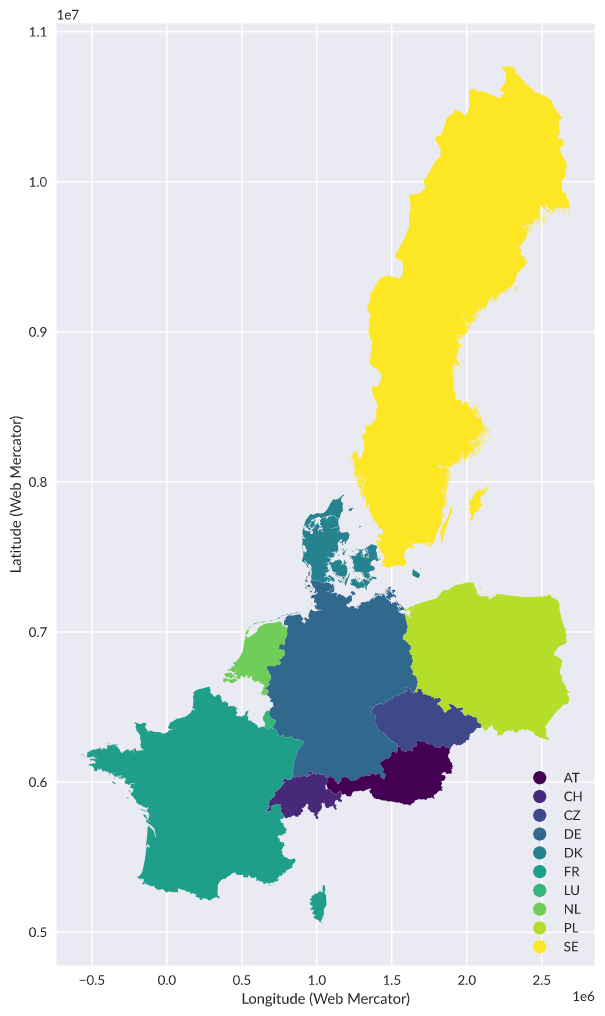
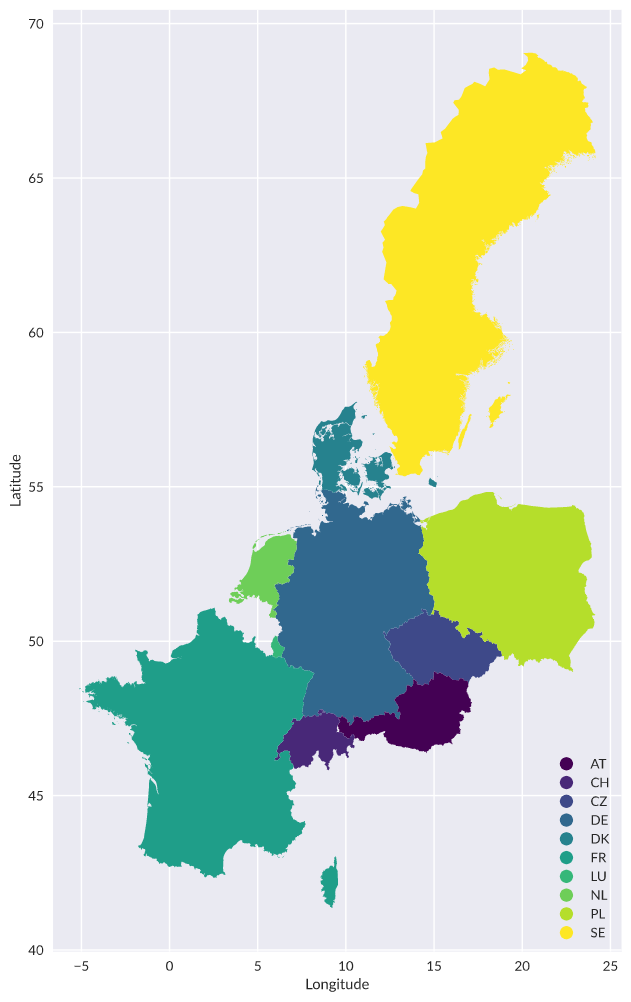
update plots, scripts

diff --git a/scripts/rpowerplants_met_loc.py b/scripts/rpowerplants_met_loc.py
@@ -1,19 +1,42 @@
+"""German renewable power generator data with location and met station
+
+Combines German Erneuerbare-Energien-Gesetz (EEG, which roughly translates
+to Renewable Energy Sources Act) power generator data from
+Netztransparenz.de (https://www.netztransparenz.de/EEG/Anlagenstammdaten)
+with postcode and geo location data from GeoNames
+(https://download.geonames.org/export/zip/), and meteorological station
+data from Deutscher Wetterdienst (DWD), Germany's meteorological service
+(https://www.dwd.de/EN/climate_environment/cdc/cdc_node.html). This script
+produces CSV files of wind and/or solar power generators, their approximate
+geo location, and their closest meteorological station. The generator
+installed capacity is aggregated by postal code.
+"""
+
 # import libraries
 from scipy import spatial
 import pandas as pd
 import numpy as np
+from os import makedirs
+import errno
+
+# GitLab data repository base URL
+urlBase = 'https://gitlab.com/api/v4/projects/19753809/repository/files/'
 
 postcodes = pd.read_csv(
-    'data/geography/postcodes/postcodesDE.csv', encoding='utf-8',
-    usecols=['postal_code', 'latitude', 'longitude'])
+    urlBase + 'geography%2Fpostcodes%2FpostcodesDE.csv/raw?ref=master',
+    # 'data/geography/postcodes/postcodesDE.csv',
+    encoding='utf-8',
+    usecols=['postal_code', 'latitude', 'longitude', 'accuracy'])
 
 # take the first postcode value when there are duplicates, drop all others
 postcodes = postcodes.drop_duplicates(['postal_code'])
 
 # read meteorological station data
 stns = pd.read_csv(
-    'data/meteorology/stations.csv', encoding='utf-8',
-    usecols=['station_id', 'latitude', 'longitude', 'type'])
+    urlBase + 'meteorology%2Fstations.csv/raw?ref=master',
+    # 'data/meteorology/stations.csv',
+    encoding='utf-8',
+    usecols=['station_id', 'latitude', 'longitude', 'type', 'state'])
 
 # rename lat and lon columns for met data
 stns = stns.rename(columns={'longitude': 'met_lon', 'latitude': 'met_lat'})
@@ -22,11 +45,29 @@ stns = stns.rename(columns={'longitude': 'met_lon', 'latitude': 'met_lat'})
 eList = ['wind']
 # eList = ['wind', 'solar']
 
+# create directory to store data
+dest = 'data/power/installed/'
+try:
+    makedirs(dest)
+except OSError as exception:
+    if exception.errno != errno.EEXIST:
+        raise
+    else:
+        print('\nBE CAREFUL! Directory ' + dest + ' already exists.')
+
 for m in eList:
     # read installed power plants data
     pp = pd.read_csv(
-        'data/power/installed/' + m + '.csv',
-        encoding='utf-8', usecols=['EEG_plant_key', 'postal_code'])
+        urlBase + 'power%2Finstalled%2F' + m + '.csv/raw?ref=master',
+        # 'data/power/installed/' + m + '.csv',
+        encoding='utf-8',
+        usecols=['postal_code', 'installed_capacity', 'city_district', 'TSO'])
+
+    # aggregate by postal code
+    pp = pd.merge(pp.groupby(
+        by='postal_code', as_index=False).installed_capacity.sum(),
+        pp.drop(columns='installed_capacity'),
+        on=['postal_code']).drop_duplicates(['postal_code'])
 
     # merge postcode and power plant data
     pp = pd.merge(pp, postcodes, on=['postal_code'])
@@ -62,10 +103,6 @@ for m in eList:
     # merge power plant and met data
     pp = pd.merge(pp, met, on=['met_lon', 'met_lat'], how='left')
 
-    # sort data by distance value
-    pp = pp.sort_values(by=['distance'])
-
-    # save data as CSV file
+    # save as CSV
     pp.to_csv(
-        'data/power/installed/' + m + '_met_loc.csv',
-        encoding='utf-8', index=False)
+        dest + m + '_agg.csv', encoding='utf-8', index=False)

diff --git a/scripts/wind_agg_plot.py b/scripts/wind_agg_plot.py
@@ -1,0 +1,88 @@
+"""Plotting postcode-aggregated German wind power generator data
+
+This script plots an interactive map of aggregated wind energy generators
+in Germany with tooltips that contain their approximate location, the
+closest wind meteorological station, installed capacity in the postal code
+area, and the transmission system operator.
+Data sources:
+- German Erneuerbare-Energien-Gesetz (EEG, which roughly translates to
+    Renewable Energy Sources Act) power generator data from
+    Netztransparenz.de (https://www.netztransparenz.de/EEG/Anlagenstammdaten)
+- postcode and geo location data from GeoNames
+    (https://download.geonames.org/export/zip/)
+- meteorological station data from Deutscher Wetterdienst (DWD),
+    Germany's meteorological service
+    (https://www.dwd.de/EN/climate_environment/cdc/cdc_node.html)
+"""
+
+# import libraries
+from bokeh.models import ColumnDataSource, CategoricalColorMapper, Plot
+from bokeh.plotting import figure
+from bokeh.tile_providers import get_provider, Vendors
+from bokeh.io import show
+from bokeh.palettes import viridis
+from pyproj import Transformer
+import pandas as pd
+
+# GitLab raw file base URL
+url = (
+    'https://gitlab.com/api/v4/projects/19753809/repository/files/' +
+    'power%2Finstalled%2Fwind_agg.csv/raw?ref=master')
+#   'data/power/installed/wind_agg.csv')
+
+data = pd.read_csv(url, encoding='utf-8')
+
+# transform latitudes and longitudes from WGS84 to Web Mercator projection
+lons = tuple(data['longitude'])
+lats = tuple(data['latitude'])
+transformer = Transformer.from_crs('epsg:4326', 'epsg:3857', always_xy=True)
+xm, ym = transformer.transform(lons, lats)
+data['mercator_x'] = xm
+data['mercator_y'] = ym
+
+# fill missing values
+data = data.fillna('?')
+
+# rounding floats
+data = data.round(
+    {'latitude': 3, 'longitude': 3, 'accuracy': 3, 'met_lat': 3,
+        'met_lon': 3, 'distance': 3, 'installed_capacity': 0})
+
+# generate unique colours for each state
+state = list(set(data['state']))
+palette = viridis(len(state))
+color_map = CategoricalColorMapper(factors=state, palette=palette)
+
+# create dictionary of source data for the map
+geo_source = ColumnDataSource(data)
+
+# define map tooltips
+TOOLTIPS = [
+    ('Installed capacity (kW)', '@installed_capacity'),
+    ('Location', '@postal_code, @city_district, @state'),
+    ('(lon, lat, acc)', '(@longitude, @latitude, @accuracy)'),
+    ('TSO', '@TSO'),
+    ('Met station (lon, lat, diff)',
+        '@station_id (@met_lon, @met_lat, @distance)')]
+
+# set output backend for the glyph API
+p = Plot(output_backend='webgl')
+
+# set figure title, tooltips and axis types
+# set axis types to mercator so that latitudes and longitudes are used
+# in the figure
+# set output backend for the plotting API
+p = figure(
+    x_axis_type='mercator', y_axis_type='mercator', tooltips=TOOLTIPS,
+    output_backend='webgl', sizing_mode='scale_both')
+
+# set OpenStreetMap / CartoDB overlay
+p.add_tile(get_provider(Vendors.CARTODBPOSITRON_RETINA))
+
+# add data points
+p.circle(
+    x='mercator_x', y='mercator_y', source=geo_source,
+    color={'field': 'state', 'transform': color_map})
+
+# open the map
+show(p)

diff --git a/scripts/zones_plot.py b/scripts/zones_plot.py
@@ -10,19 +10,33 @@ for statistics (NUTS) data from Eurostat
 
 # import libraries
 import geopandas as gpd
-from bokeh.io import show
-from bokeh.models import GeoJSONDataSource, CategoricalColorMapper, Plot
-from bokeh.plotting import figure
-from bokeh.palettes import viridis
-# from bokeh.tile_providers import get_provider, Vendors
+import matplotlib as mpl
+import matplotlib.pyplot as plt
 
 # import data
 zones = gpd.read_file(
     'https://gitlab.com/api/v4/projects/19753809/repository/files/' +
     'geography%2Fpolygons%2Fbidding_zones.geojson/raw?ref=master')
 
-# # convert to Web Mercator projection
-# zones = zones.to_crs(crs='EPSG:3857')
+# plot styles
+plt.style.use('seaborn')
+mpl.rcParams['font.sans-serif'] = ['Lato', 'sans-serif']
+
+# configure plot
+fig, ax = plt.subplots(1, figsize=(13, 13))
+zones.plot(
+    column='zone', ax=ax, legend=True, cmap='viridis',
+    legend_kwds={'loc': 'lower right'})
+plt.ylabel('Latitude')
+plt.xlabel('Longitude')
+plt.show()
+
+"""Bokeh plot
+
+from bokeh.io import show
+from bokeh.models import GeoJSONDataSource, CategoricalColorMapper, Plot
+from bokeh.plotting import figure
+from bokeh.palettes import viridis
 
 # load data source
 geo_source = GeoJSONDataSource(geojson=zones.to_json())
@@ -43,13 +57,8 @@ p = Plot(output_backend='webgl')
 # in the figure
 # set output backend for the plotting API
 p = figure(
-    # x_axis_type='mercator', y_axis_type='mercator',
     tooltips=TOOLTIPS, output_backend='webgl', sizing_mode='scale_width',
-    # plot_width=400, plot_height=600
-    )
-
-# # set OpenStreetMap / CartoDB overlay
-# p.add_tile(get_provider(Vendors.CARTODBPOSITRON_RETINA))
+    plot_width=4, plot_height=6)
 
 # hover settings
 p.hover.point_policy = 'follow_mouse'
@@ -61,23 +70,4 @@ p.patches(
 
 # open the map
 show(p)
-
-"""Matplotlib plot
-
-# import libraries
-import matplotlib as mpl
-import matplotlib.pyplot as plt
-
-# plot styles
-plt.style.use('seaborn')
-mpl.rcParams['font.sans-serif'] = ['Lato', 'sans-serif']
-
-# configure plot
-fig, ax = plt.subplots(1, figsize=(13, 13))
-zones.plot(
-    column='zone', ax=ax, legend=True, cmap='viridis',
-    legend_kwds={'loc': 'lower right'})
-plt.ylabel('Latitude (Web Mercator)')
-plt.xlabel('Longitude (Web Mercator)')
-plt.show()
 """

diff --git a/scripts/countries_plot.py b/scripts/countries_plot.py
@@ -17,9 +17,6 @@ cntr = gpd.read_file(
     'https://gitlab.com/api/v4/projects/19753809/repository/files/' +
     'geography%2Fpolygons%2Fcountries.geojson/raw?ref=master')
 
-# convert to Web Mercator projection
-cntr = cntr.to_crs(crs='EPSG:3857')
-
 # plot styles
 plt.style.use('seaborn')
 mpl.rcParams['font.sans-serif'] = ['Lato', 'sans-serif']
@@ -29,8 +26,8 @@ fig, ax = plt.subplots(1, figsize=(13, 13))
 cntr.plot(
     column='CNTR_CODE', ax=ax, legend=True, cmap='viridis',
     legend_kwds={'loc': 'lower right'})
-plt.ylabel('Latitude (Web Mercator)')
-plt.xlabel('Longitude (Web Mercator)')
+plt.ylabel('Latitude')
+plt.xlabel('Longitude')
 plt.show()
 
 """Bokeh plot
@@ -40,7 +37,6 @@ from bokeh.io import show
 from bokeh.models import GeoJSONDataSource, CategoricalColorMapper, Plot
 from bokeh.plotting import figure
 from bokeh.palettes import viridis
-# from bokeh.tile_providers import get_provider, Vendors
 
 # load data source
 geo_source = GeoJSONDataSource(geojson=cntr.to_json())
@@ -60,12 +56,8 @@ p = Plot(output_backend='webgl')
 # set axis types to mercator so that latitudes and longitudes are used
 # in the figure
 p = figure(
-    # x_axis_type='mercator', y_axis_type='mercator'
     tooltips=TOOLTIPS, output_backend='webgl', tools='save, hover',
-    plot_width=400)
-
-# # set OpenStreetMap / CartoDB overlay
-# p.add_tile(get_provider(Vendors.CARTODBPOSITRON_RETINA))
+    plot_width=4, plot_height=6)
 
 # hover settings
 p.hover.point_policy = 'follow_mouse'

diff --git a/docs/data_used/regions.rst b/docs/data_used/regions.rst
@@ -237,7 +237,7 @@ There is no clear indication of the bidding zone boundaries for Sweden, so some 
 
 Approximate bidding zone polygons are available from Tomorrow's electricityMap repository [tmrowco2020]_. Combining all of these produces the following map.
 
-.. bokeh-plot:: ../scripts/zones_plot.py
-   :source-position: none
+.. figure:: ../images/zones.png
+   :alt: Approximate bidding zones of Germany and its interconnections (in the first half of 2018), made using polygons by Tomorrow and Eurostat (© EuroGeographics for the administrative boundaries).
 
-Approximate bidding zones of Germany and its interconnections (in the first half of 2018), made using polygons by Tomorrow and Eurostat (© EuroGeographics for the administrative boundaries).
+   Approximate bidding zones of Germany and its interconnections (in the first half of 2018), made using polygons by Tomorrow and Eurostat (© EuroGeographics for the administrative boundaries).
